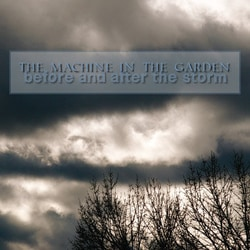
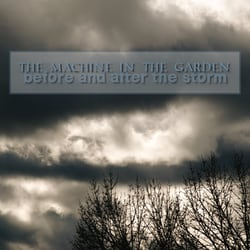
cover image improvement

diff --git a/storm.php b/storm.php
@@ -4,7 +4,7 @@
 	'og:upc'=>'885767743120',
 	'og:url'=>'https://www.tmitg.com/storm.php',
 	'og:description'=>'the Machine in the Garden \'Before and After the Storm\' is the band\'s eighth studio album.',
-	'og:image'=>'https://www.tmitg.com/albums/baatslg.jpg',
+	'og:image'=>'https://www.tmitg.com/albums/baatsOG.jpg',
 	'og:image:alt'=>'Album cover artwork for the Machine in the Garden Before and After the Storm',
 	'og:image:type'=>'image/jpeg',
 	'og:image:width'=>'1200',
@@ -58,7 +58,12 @@
 
 <!-- this is the display table for the CD and info -->
 <section id="discog_albuminfo" tabindex="-1">
-	<div><img src="albums/baats.jpg" width="250" height="250" alt="Before and After the Storm (2011) album cover — the Machine in the Garden" class="albumimg" itemprop="image" /></div>
+	<div>
+		<picture>
+			<source srcset="albums/baats500.jpg 2x">
+				<img src="albums/baats.jpg" width="250" height="250" alt="Before and After the Storm (2011) album cover — the Machine in the Garden" class="albumimg" itemprop="image" />
+		</picture>
+	</div>
 	<h1 itemprop="name">Before and After the Storm</h1>
 	<details itemprop="abstract" style="margin:1em 0;">
 		<summary><em>The band's eighth studio album with eight new songs encompass the variety of styles&mdash;from goth rock to electronic ethereal&mdash;the band is known for.</em></summary>
